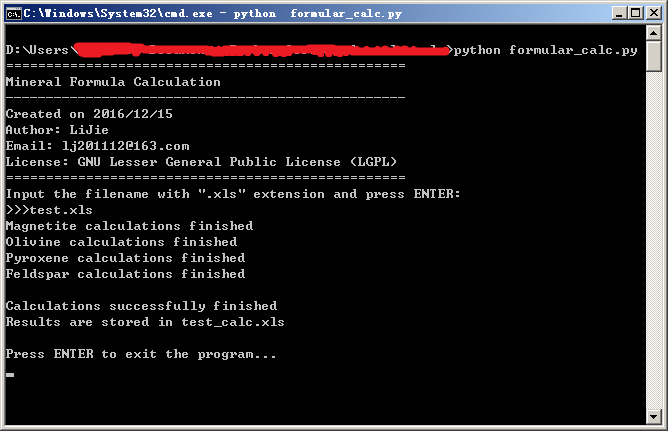
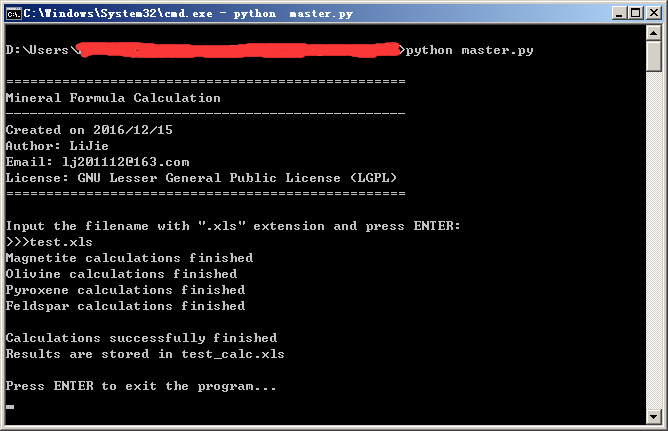
New contents in README.md

diff --git a/README.md b/README.md
@@ -1,5 +1,5 @@
 # Mineral-Formula-Calculation
-Minerals formula calculations program based on EMPA major elements analysis
+Minerals formula calculations program based on major elements analysis
 
 Created on 2016/12/15  
 Author: LiJie  
@@ -7,5 +7,46 @@ Email: lj201112@163.com
 License: GNU Lesser General Public License (LGPL)
 
 ##0x01 介绍
-Mineral-Formula-Calculation是一个计算EMPA数据的程序，输入
+Mineral-Formula-Calculation是一个计算EMPA数据的程序。该程序的功能：
 
+* 计算矿物的Fe3+含量
+* 计算分子中每种元素的原子数  
+
+程序在Python文件夹下，文档结构如下：  
+
+Python:  
+&ensp;&ensp;&ensp;&ensp;&ensp;|--master.py 运行的主程序  
+&ensp;&ensp;&ensp;&ensp;&ensp;|--main 包含计算文件的主文件夹  
+&ensp;&ensp;&ensp;&ensp;&ensp;&ensp;&ensp;&ensp;&ensp;|--Magnetite.py 磁铁矿计算文件  
+&ensp;&ensp;&ensp;&ensp;&ensp;&ensp;&ensp;&ensp;&ensp;|--Olivine.py 橄榄石结算文件  
+&ensp;&ensp;&ensp;&ensp;&ensp;&ensp;&ensp;&ensp;&ensp;|--Pyroxene.py 辉石计算文件  
+&ensp;&ensp;&ensp;&ensp;&ensp;&ensp;&ensp;&ensp;&ensp;|--Feldspar.py 长石计算文件  
+&ensp;&ensp;&ensp;&ensp;&ensp;&ensp;&ensp;&ensp;&ensp;|--Ilmenite.py 钛铁矿计算文件  
+            
+##0x02 依赖关系
+本程序master.py以及main文件夹中的模块均使用python 2.7.11编写。程序使用了Numpy以及Pandas包。如果您需要使用本程序，请安装Numpy以及Pandas包。  
+您可以安装Python集成开发环境[Anaconda](https://www.continuum.io/downloads),或者安装Python包管理工具[pip](https://pip.pypa.io/en/stable/installing/)。
+如果安装pip，则可以使用如下命令安装Numpy以及Pandas：
+```
+pip install numpy 
+pip install pandas
+```
+
+##0x03使用方法
+1.下载Python文件夹，将要计算的数据文件（以test.xls为例）放在Python文件夹中。
+![image](https://raw.githubusercontent.com/lj201112/Mineral-Formula-Calculation/master/img_folder/3.png)
+2运行终端（Windows下为cmd），找到Python文件夹所在的目录，运行
+```python
+python master.py
+```  
+3.根据提示，输入数据文件名称（包括扩展名）test.xls，按“回车”键开始计算。当计算结束后，再按下“回车”结束程序。  
+4.计算结束后，在Python文件夹下会出现test_calc.xls，该文件为计算结果。
+![image](https://raw.githubusercontent.com/lj201112/Mineral-Formula-Calculation/master/img_folder/4.png)
+
+##0x04数据结构及文件类型说明
+由于矿物的EMPA数据成分可能会有小范围的交叉，因此没有做
+
+            
+            
+            
+            
